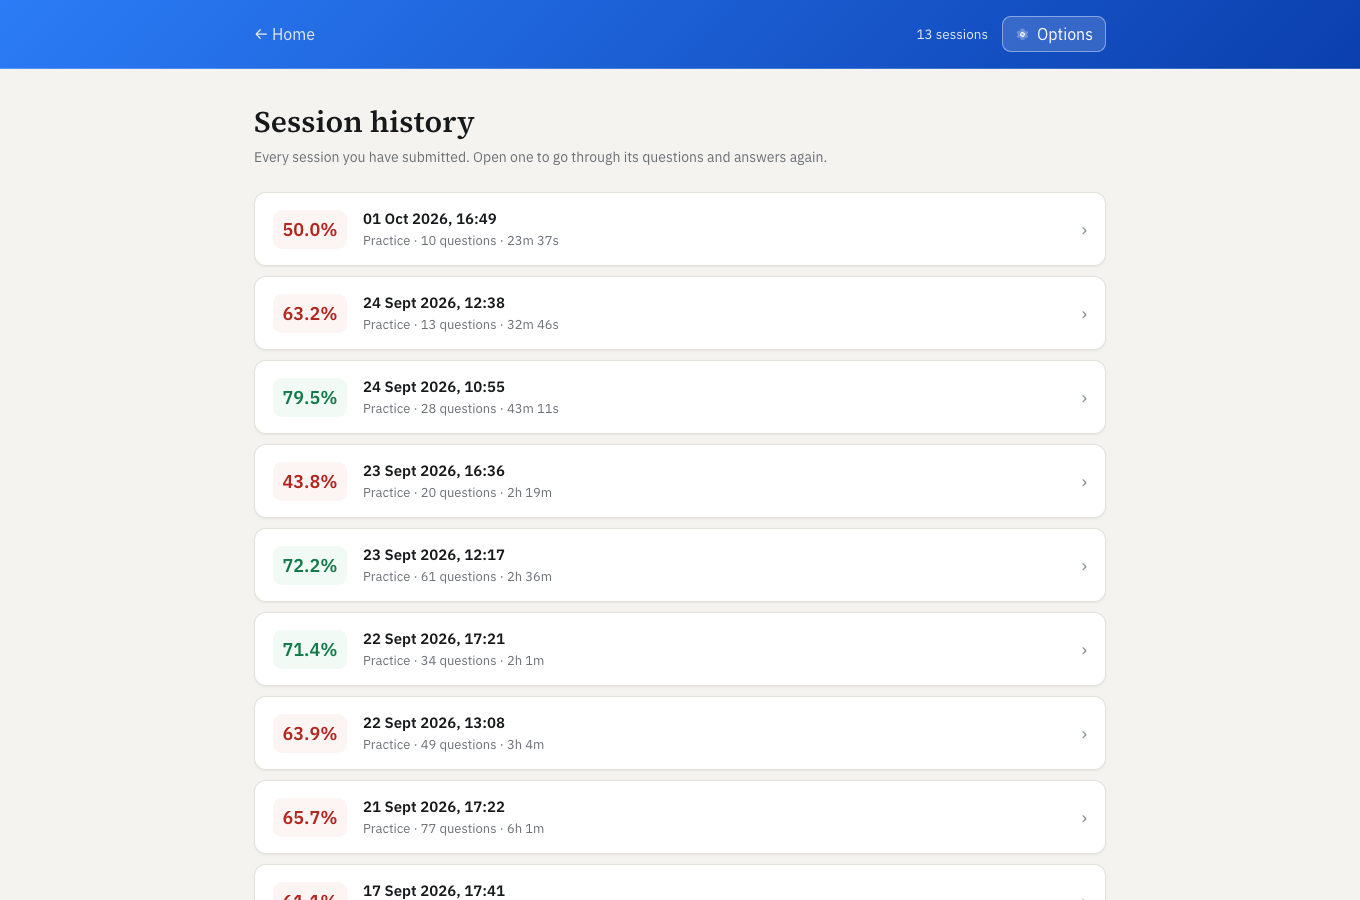
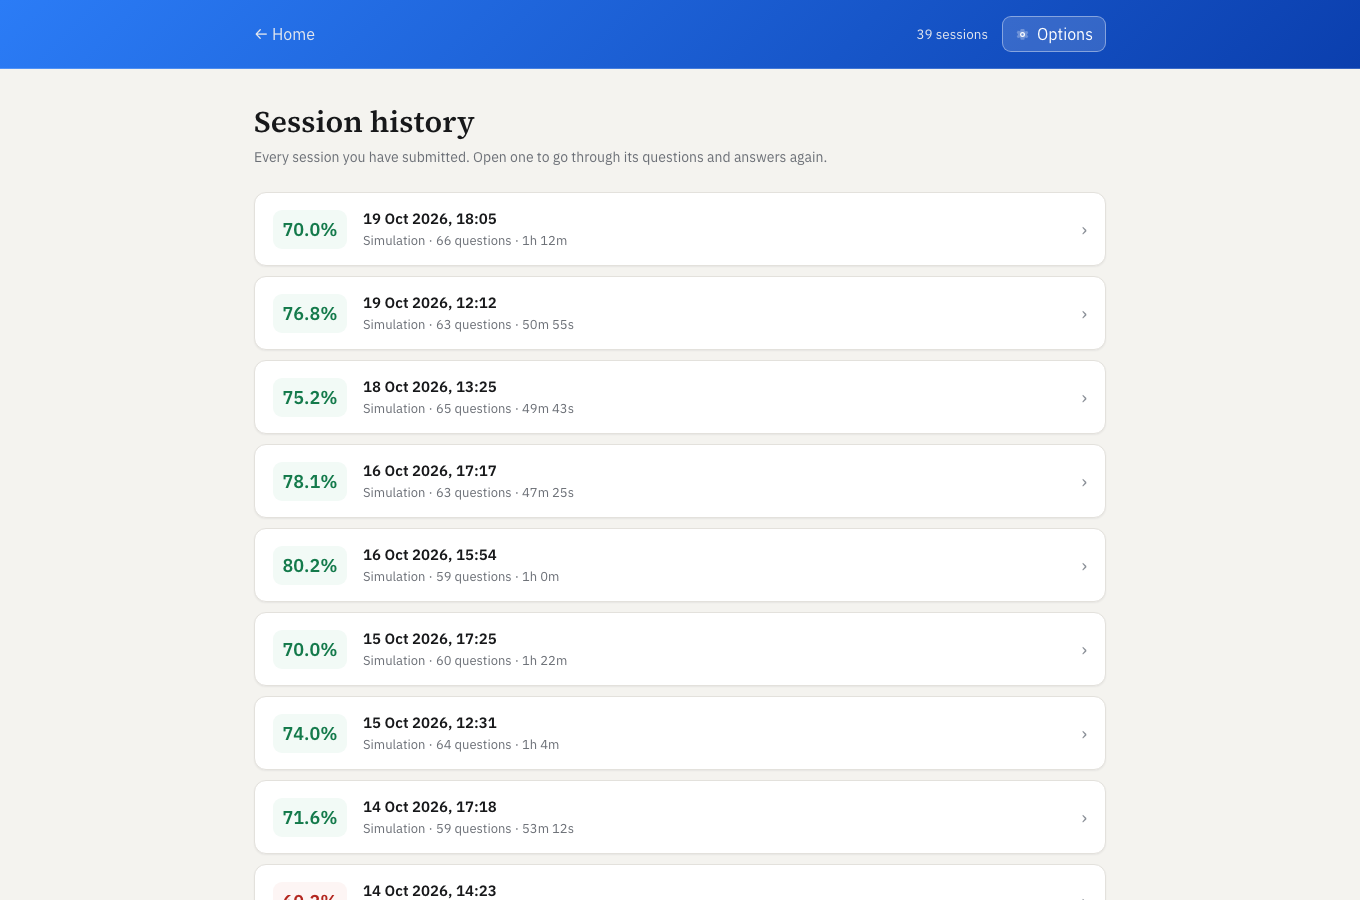
feat: replaced gain with last 5 average and pass streak, updated readme and screenshots

diff --git a/AZ-104.Simulator.FE/src/pages/ModeSelectPage.tsx b/AZ-104.Simulator.FE/src/pages/ModeSelectPage.tsx
@@ -11,6 +11,9 @@ import { MODE_BG_GRADIENT } from "../theme/tokens";
 import { formatDateShort } from "../utils/format";
 import badgeUrl from "../assets/microsoft-certified-associate-badge.png";
 
+/** Sessioni recenti: la loro media dice dove sei adesso. */
+const RECENT_COUNT = 5;
+
 export function ModeSelectPage() {
   const navigate = useNavigate();
   const { theme, tokens: t } = useTheme();
@@ -30,14 +33,21 @@ export function ModeSelectPage() {
 
   const shown = useMemo(() => (range ? history.slice(range[0], range[1] + 1) : history), [history, range]);
 
-  const progress = useMemo(() => {
-    if (shown.length === 0) return null;
-    const scores = shown.map((h) => h.percentage);
-    const worst = Math.min(...scores);
-    const best = Math.max(...scores);
-    const gain = Math.round((scores[scores.length - 1] - scores[0]) * 10) / 10;
-    return { worst, best, gain, gainColor: gain > 0 ? t.ok : gain < 0 ? t.er : t.mu };
-  }, [shown, t.ok, t.er, t.mu]);
+  // Solo le Simulation: in Practice le soluzioni sono a portata di mano e il numero di domande varia.
+  const stats = useMemo(() => {
+    const scores = shown.filter((h) => h.mode === "exam").map((h) => h.percentage);
+    if (scores.length === 0) return null;
+    const recentCount = Math.min(RECENT_COUNT, scores.length);
+    let streak = 0;
+    for (let i = scores.length - 1; i >= 0 && scores[i] >= PASS_MARK_PERCENT; i--) streak++;
+    return {
+      worst: Math.min(...scores),
+      best: Math.max(...scores),
+      recent: round1(average(scores.slice(-recentCount))),
+      recentCount,
+      streak,
+    };
+  }, [shown]);
 
   return (
     <>
@@ -125,7 +135,7 @@ export function ModeSelectPage() {
             Passing score {PASS_MARK_PERCENT}%. One point per correct component, no deductions for wrong answers.
           </p>
 
-          {progress && (
+          {history.length > 0 && (
             <div style={{ marginTop: 32, background: t.card, border: `1px solid ${t.bd}`, borderRadius: 14, padding: "24px 26px", boxShadow: `0 1px 2px ${t.sh}` }}>
               <div style={{ display: "flex", alignItems: "center", gap: 12, marginBottom: 16 }}>
                 <div style={{ fontSize: 11, letterSpacing: ".1em", textTransform: "uppercase", fontWeight: 600, color: t.fa }}>
@@ -160,21 +170,24 @@ export function ModeSelectPage() {
                   </button>
                 </div>
               )}
-              <div style={{ display: "grid", gridTemplateColumns: "repeat(3, 1fr)", gap: 14, marginBottom: 22 }}>
-                <div>
-                  <div style={{ fontSize: 11.5, color: t.mu, marginBottom: 4 }}>Worst score</div>
-                  <div style={{ fontSize: 24, fontWeight: 600, color: t.er }}>{progress.worst}%</div>
-                </div>
-                <div>
-                  <div style={{ fontSize: 11.5, color: t.mu, marginBottom: 4 }}>Best score</div>
-                  <div style={{ fontSize: 24, fontWeight: 600, color: t.ok }}>{progress.best}%</div>
-                </div>
-                <div>
-                  <div style={{ fontSize: 11.5, color: t.mu, marginBottom: 4 }}>Gain</div>
-                  <div style={{ fontSize: 24, fontWeight: 600, color: progress.gainColor }}>
-                    {progress.gain > 0 ? "+" : ""}{progress.gain}%
-                  </div>
-                </div>
+              <div style={{ display: "grid", gridTemplateColumns: "repeat(auto-fit, minmax(118px, 1fr))", gap: 14, marginBottom: 10 }}>
+                <StatTile label="Worst score" value={stats ? `${stats.worst}%` : "—"} color={t.er} />
+                <StatTile label="Best score" value={stats ? `${stats.best}%` : "—"} color={t.ok} />
+                <StatTile
+                  label={`Last ${stats?.recentCount ?? RECENT_COUNT} average`}
+                  title={`Average of the last ${stats?.recentCount ?? RECENT_COUNT} Simulations`}
+                  value={stats ? `${stats.recent}%` : "—"}
+                  color={stats && stats.recent >= PASS_MARK_PERCENT ? t.ok : t.er}
+                />
+                <StatTile
+                  label="Passed in a row"
+                  title={`Consecutive Simulations at or above ${PASS_MARK_PERCENT}%, up to the latest`}
+                  value={stats ? String(stats.streak) : "—"}
+                  color={stats?.streak ? t.ok : t.mu}
+                />
+              </div>
+              <div style={{ fontSize: 11.5, color: t.fa, marginBottom: 22 }}>
+                {stats ? "Simulation sessions only · the chart shows every session" : "No Simulation in this period · the chart shows every session"}
               </div>
               <ProgressChart
                 attempts={history}
@@ -190,3 +203,16 @@ export function ModeSelectPage() {
     </>
   );
 }
+
+function StatTile({ label, value, color, title }: { label: string; value: string; color: string; title?: string }) {
+  const { tokens: t } = useTheme();
+  return (
+    <div title={title}>
+      <div style={{ fontSize: 11.5, color: t.mu, marginBottom: 4 }}>{label}</div>
+      <div style={{ fontSize: 24, fontWeight: 600, color, fontVariantNumeric: "tabular-nums", whiteSpace: "nowrap" }}>{value}</div>
+    </div>
+  );
+}
+
+const average = (xs: number[]) => xs.reduce((sum, x) => sum + x, 0) / xs.length;
+const round1 = (x: number) => Math.round(x * 10) / 10;

diff --git a/README.md b/README.md
@@ -6,12 +6,14 @@ to be installed locally except Docker itself.
 
 ## Screenshots
 
-Home screen: pick a mode and see how your scores are trending across the sessions you have already sat.
+Home screen: pick a mode and see where your Simulations stand — worst and best score, the average of the last five
+and how many you have passed in a row. The chart of every session can be zoomed on a period and on the score axis.
 
 ![Home screen](docs/screenshots/home.png)
 
 A question during a practice session, with its attached screenshot (*exhibit*) open and the solution available on
-demand. This one belongs to a scenario series, so its linked questions are listed alongside.
+demand. This one belongs to a scenario series, so its linked questions are listed alongside. *Save to study later*
+marks it for after the session; *Flag for review* is for coming back to it before submitting.
 
 ![A question during a session](docs/screenshots/question.png)
 
@@ -19,17 +21,28 @@ History of submitted sessions: open any past attempt to go through its questions
 
 ![Session history](docs/screenshots/history.png)
 
+Inside a past attempt: every question with your answer, the solution and its explanation, filtered here to the
+questions you saved to study later together with the ones you got wrong.
+
+![A past attempt, filtered](docs/screenshots/attempt.png)
+
 ## What it does
 
 - **Two modes.** *Practice* lets you choose how many questions you want — or go open-ended and stop whenever you
   like, scoring only what you answered — whether to run a clock, and whether the solution should appear on its own
   as soon as you answer. *Simulation* is a fixed timed set under exam conditions.
 - **Microsoft's own partial credit rule**: one point per correctly answered component, nothing deducted for wrong
-  ones, so a single mistake never zeroes out a multi-part question.
+  ones, so a single mistake never zeroes out a multi-part question. Drag-and-drop sequences are scored by position,
+  while the few that ask *which* objects to pick are scored as a set, in any order.
+- **Moving around a session**: Previous/Next or the ← → keys, a question panel that can show only the unanswered or
+  the flagged questions, and *Flag for review* for the ones to check again before submitting.
 - **Exhibits**: the screenshots that come with a question are shown inline and can be zoomed in and out, since many
   of them are small and dense.
-- **History and progress**: every submitted session is kept with its questions and answers, and the home screen
-  charts your scores over time.
+- **History and progress**: every submitted session is kept with its questions and answers. The home screen charts
+  them all — zoomable on a period and on the score range — and sums up your Simulations: worst, best, average of the
+  last five and passes in a row.
+- **Study later**: mark any question during a session with *Save to study later*, then find it in the review at the
+  end of the session and in the history, where it can also be listed together with the questions you got wrong.
 - **Sessions survive an interruption.** The session in progress is saved as you go, so a reload, a closed tab or a
   laptop lid coming down doesn't cost you your answers — and the clock stops while the app is away.
 
